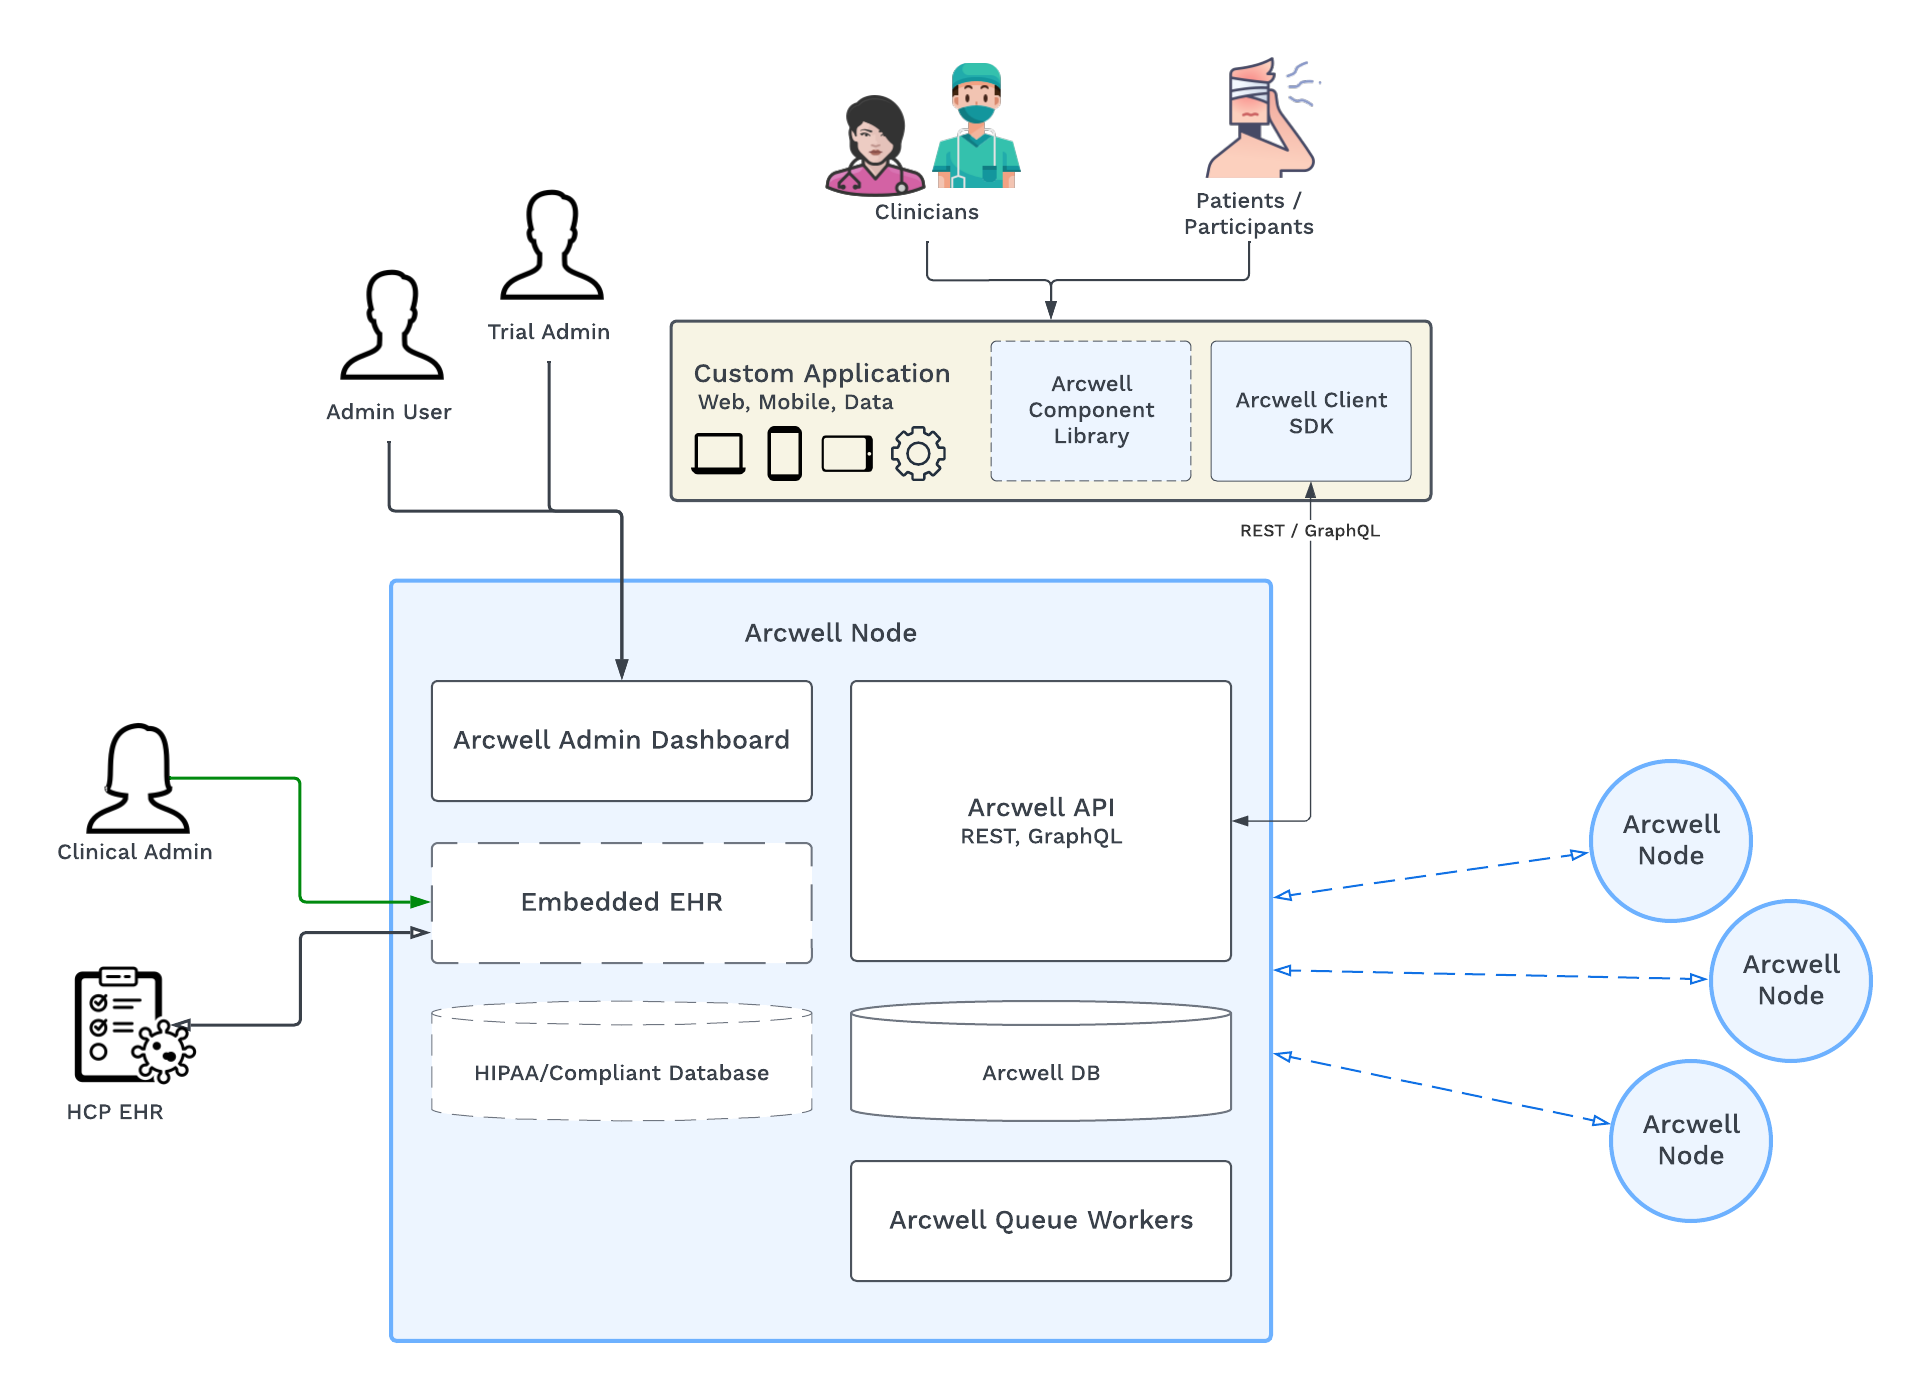
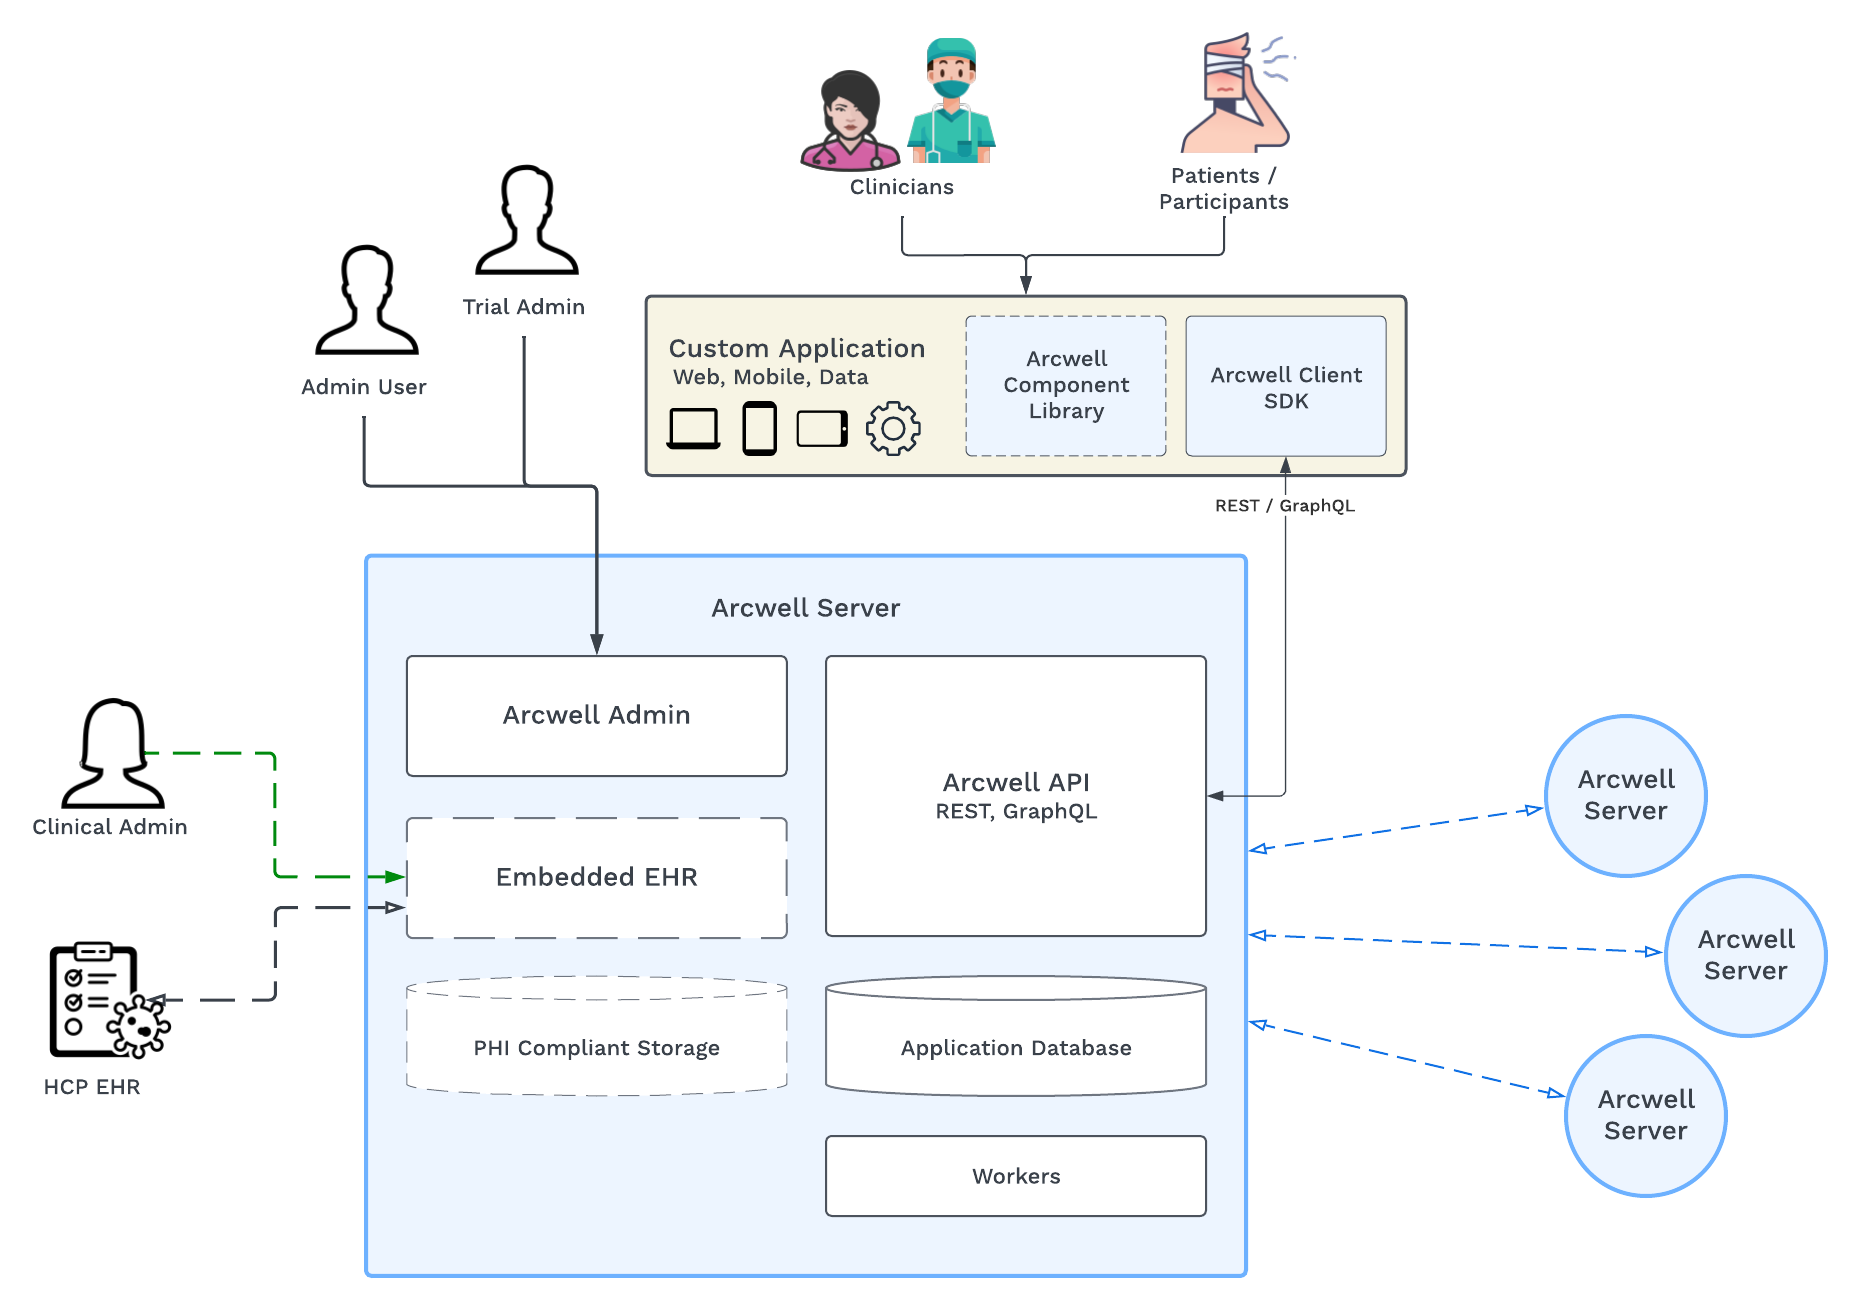
Architecture overview image, text update

diff --git a/doc/README.md b/doc/README.md
@@ -1,13 +1,15 @@
-# arcwell
-Arcwell Digital Medicine Platform
+<img src="./logo.png" width="250"/>
 
+Arcwell Digital Medicine Platform
 
 ## Architecture Overview
 Arcwell is built in a model following a Client-Server approach where:
 
-* the **Server** is an individual "Arcwell Node" that contains business logic, data modeling, and interoperability configuration with other systems
-* the **Client** is first developed as a set of Client SDKs and libraries that allow the implementation of custom client applications which "speak Arcwell."
-* the Server also provides an **Admin Dashboard** which provides the interface for configuration, modification of trials, and access to data
+* The **Arcwell Server** is an instance that contains business logic, data modeling, and interoperability configuration with other systems
+
+* Clients are built as custom applications leveraging an **Arcwell Client SDK** –  libraries which facilitate connecting to and interacting with Arcwell Servers. UI applications can choose to leverage components from an **Arcwell Component Library**.
+
+* The server provides **Arcwell Admin**, the interface for configuration, data visualization, and access to data and setup.
 
 This means that a representative end-user application or an **"Arcwell Application"** will be a separate entity that leverages the Client libraries to connect to Arcwell.
 
